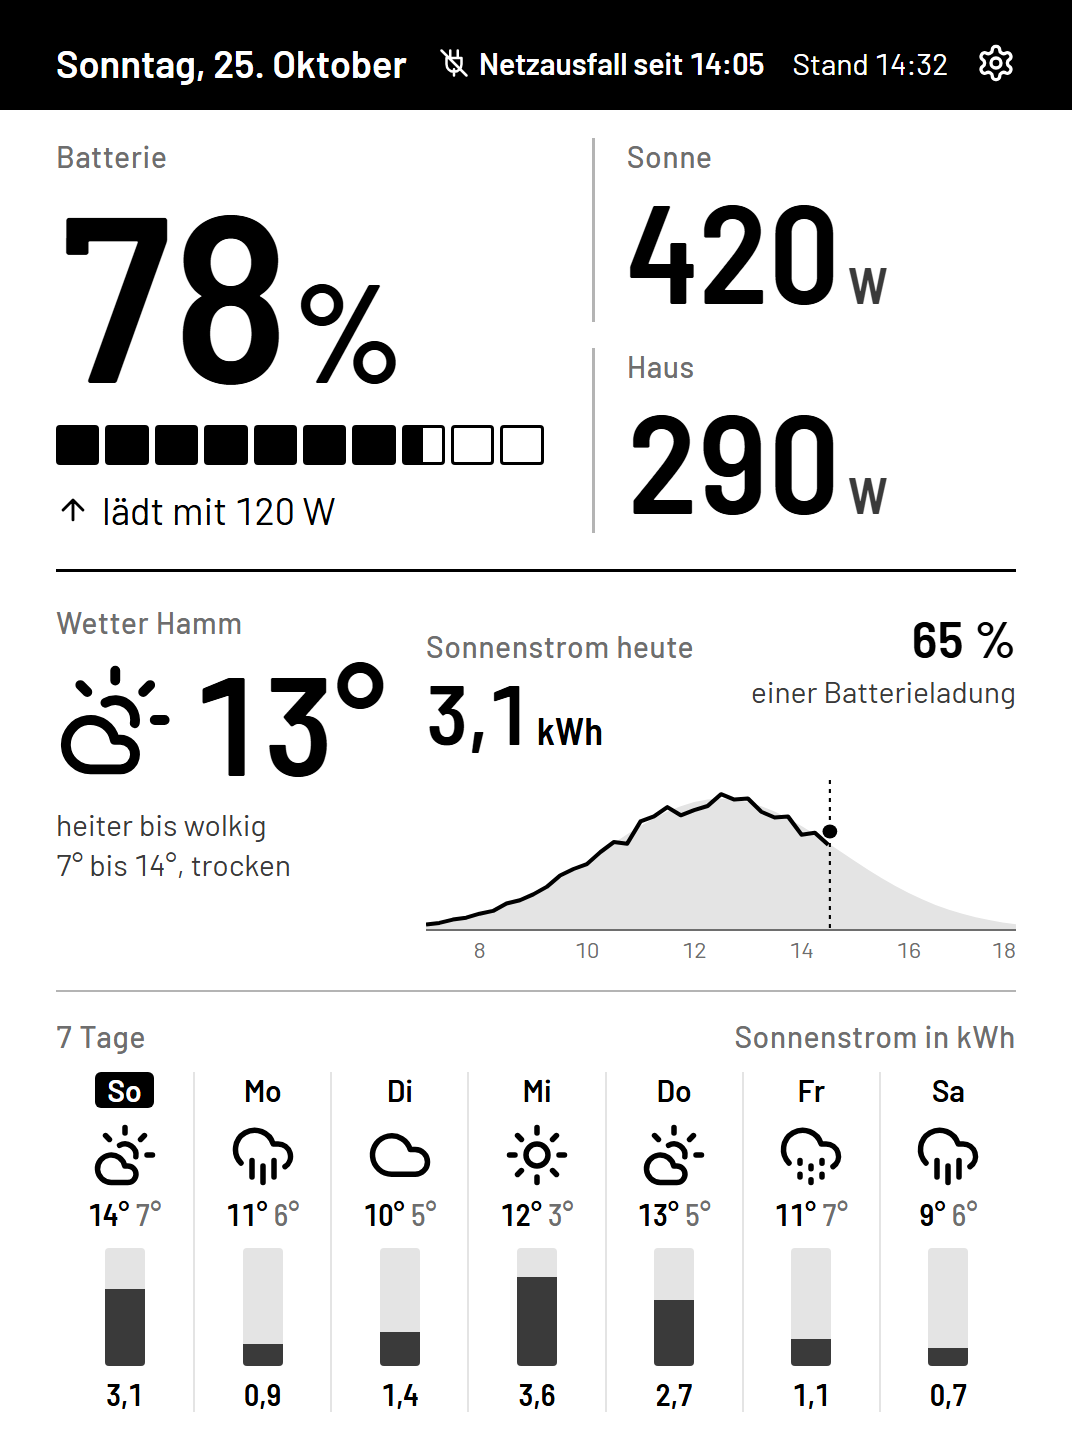
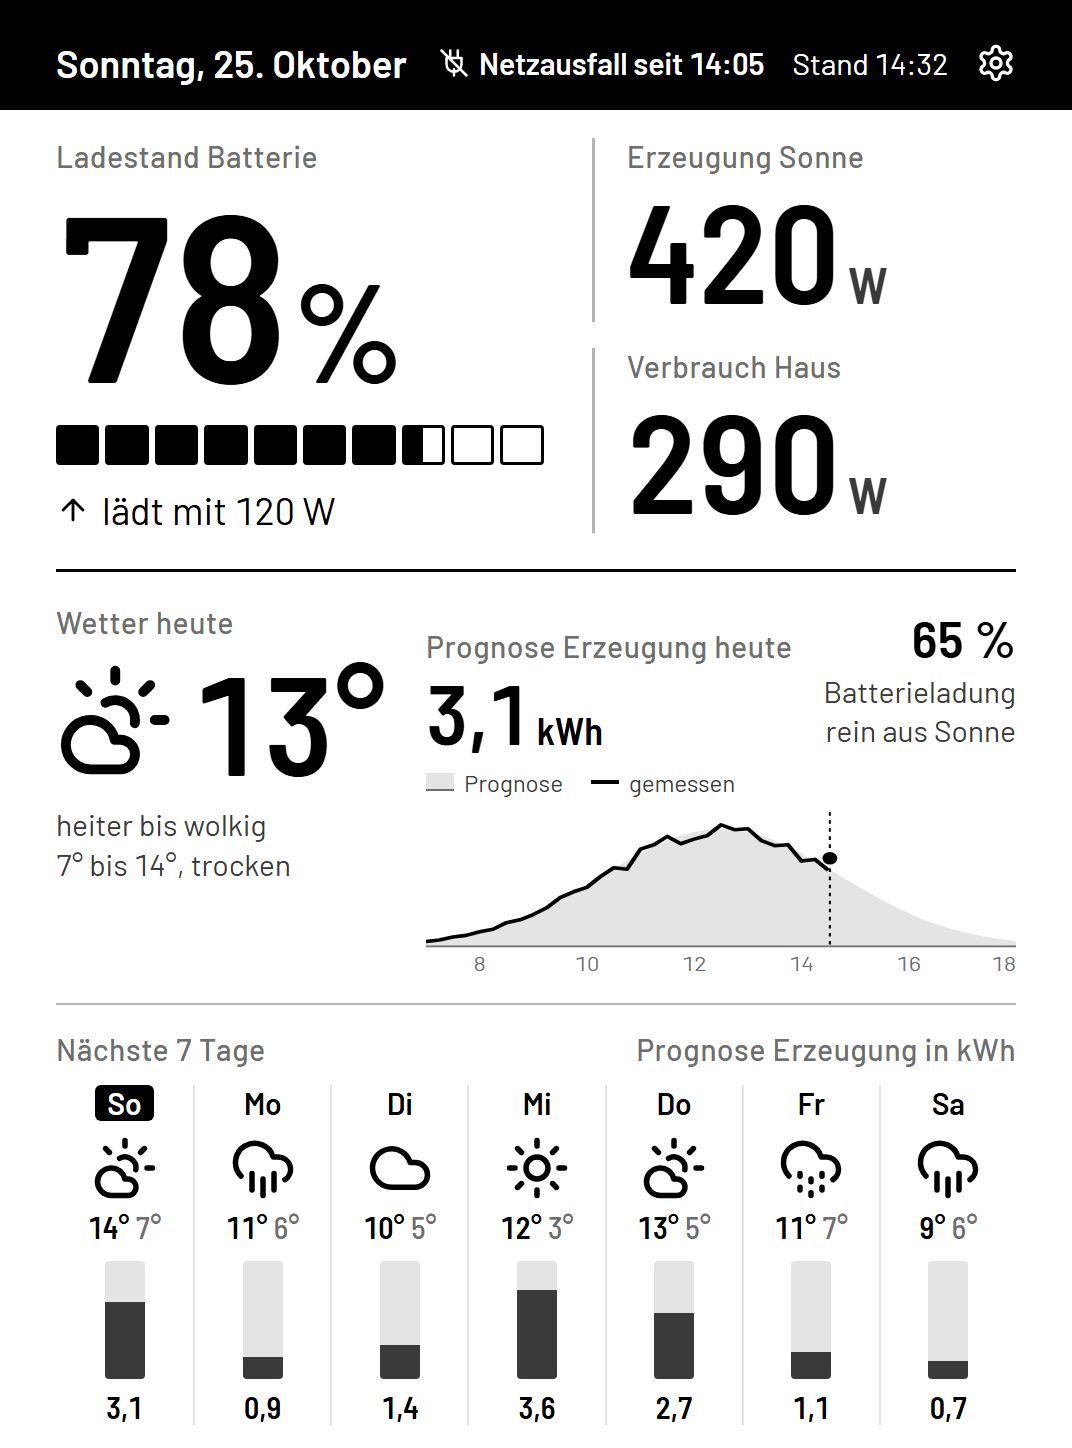
Startseite: Beschriftungen für Einsteiger
Erzeugung Sonne, Verbrauch Haus und Ladestand Batterie statt
knapper Begriffe. Prognose heißt jetzt Prognose, der Anteil an der
Batterie »Batterieladung rein aus Sonne«. Legende an der Tageskurve
trennt Prognose und gemessenen Wert.

diff --git a/entwurf/startseite.html b/entwurf/startseite.html
@@ -89,7 +89,12 @@
   .prognose .kwh span { font-size: var(--s-3); margin-left: 6px; }
   .prognose .anteil { font-size: var(--s-2); color: var(--tinte-2); text-align: right; line-height: 1.3; }
   .prognose .anteil b { font-family: var(--zahl); font-size: var(--s-4); color: var(--tinte); font-weight: 600; display: block; }
-  .kurve { margin-top: 18px; width: 100%; height: 190px; display: block; }
+  .legende { display: flex; gap: 28px; font-size: var(--s-1); color: var(--tinte-2); margin-top: 14px; }
+  .legende span { display: flex; align-items: center; gap: 10px; }
+  .legende i { display: block; width: 28px; }
+  .legende .flaeche-m { height: 18px; background: var(--flaeche); border-bottom: 2px solid var(--tinte-3); }
+  .legende .linie-m { height: 4px; background: var(--tinte); }
+  .kurve { margin-top: 8px; width: 100%; height: 170px; display: block; }
   .kurve text { font-family: var(--schrift); font-size: 22px; fill: var(--tinte-3); }
 
   /* 7 Tage */
@@ -151,14 +156,14 @@
 
   <section class="haupt">
     <div class="akku">
-      <div class="label">Batterie</div>
+      <div class="label">Ladestand Batterie</div>
       <div class="wert">78<span>%</span></div>
       <div class="zellen"><i class="voll"></i><i class="voll"></i><i class="voll"></i><i class="voll"></i><i class="voll"></i><i class="voll"></i><i class="voll"></i><i class="halb"></i><i></i><i></i></div>
       <div class="richtung"><svg class="i"><use href="#pfeil-hoch"/></svg>lädt mit 120 W</div>
     </div>
     <div class="fluss">
-      <div><div class="label">Sonne</div><div class="wert">420<span>W</span></div></div>
-      <div><div class="label">Haus</div><div class="wert">290<span>W</span></div></div>
+      <div><div class="label">Erzeugung Sonne</div><div class="wert">420<span>W</span></div></div>
+      <div><div class="label">Verbrauch Haus</div><div class="wert">290<span>W</span></div></div>
     </div>
     <div class="getrennt">
       <svg class="i"><use href="#wlan-aus"/></svg>
@@ -169,24 +174,25 @@
 
   <section class="heute">
     <div class="wetter-jetzt">
-      <div class="label">Wetter Hamm</div>
+      <div class="label">Wetter heute</div>
       <div class="zeile"><svg class="i"><use href="#sonne-wolke"/></svg><div class="temp">13°</div></div>
       <div class="text">heiter bis wolkig<br>7° bis 14°, trocken</div>
     </div>
     <div class="prognose">
       <div class="kopfzeile">
         <div>
-          <div class="label">Sonnenstrom heute</div>
+          <div class="label">Prognose Erzeugung heute</div>
           <div class="kwh">3,1<span>kWh</span></div>
         </div>
-        <div class="anteil"><b>65 %</b>einer Batterieladung</div>
+        <div class="anteil"><b>65 %</b>Batterieladung<br>rein aus Sonne</div>
       </div>
+      <div class="legende"><span><i class="flaeche-m"></i>Prognose</span><span><i class="linie-m"></i>gemessen</span></div>
       <svg class="kurve" id="kurve" viewBox="0 0 560 190" preserveAspectRatio="none"></svg>
     </div>
   </section>
 
   <section>
-    <div class="woche-kopf"><span class="label">7 Tage</span><span class="label">Sonnenstrom in kWh</span></div>
+    <div class="woche-kopf"><span class="label">Nächste 7 Tage</span><span class="label">Prognose Erzeugung in kWh</span></div>
     <div class="woche" id="woche"></div>
   </section>
 </main>
